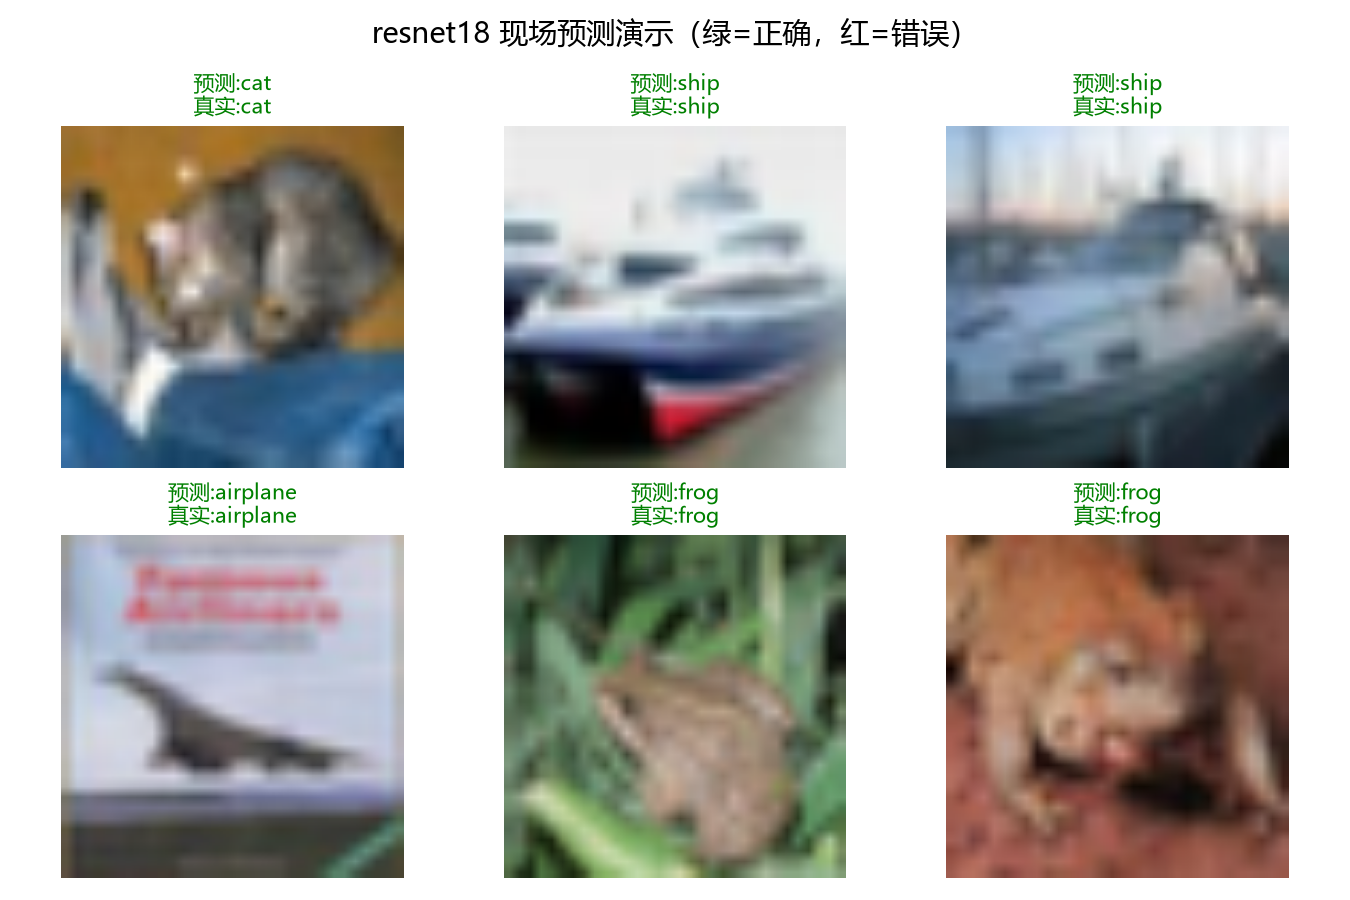
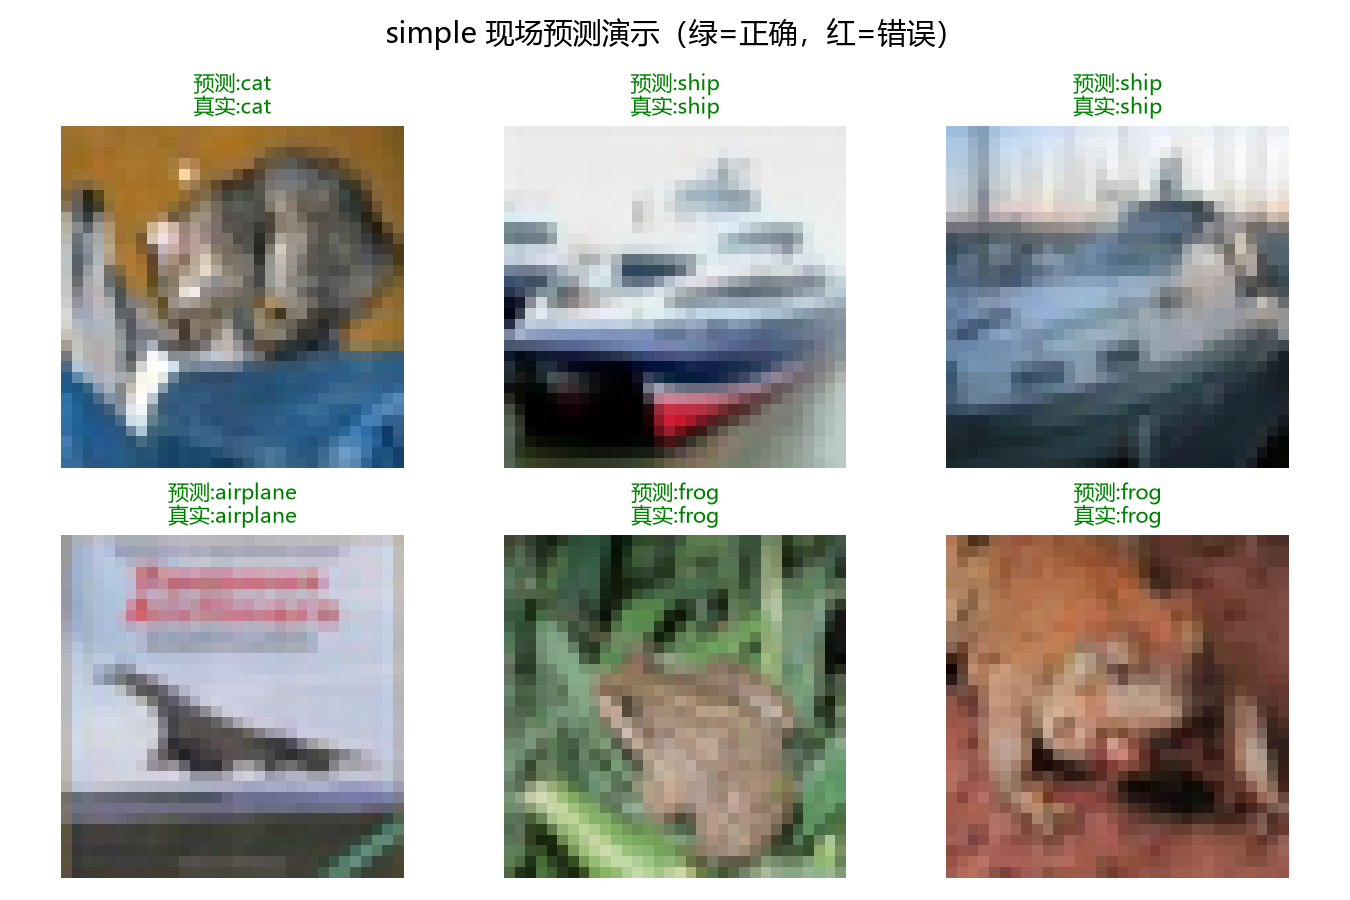
修复demo路径解析；学习笔记补充失败案例；统一冻结骨干→全量微调表述；加入答辩演示材料

diff --git a/src/demo.py b/src/demo.py
@@ -127,14 +127,21 @@ def predict_test_samples(model, name, tf, device, n):
 
 def main():
     args = parse_args()
+    # 相对路径统一从项目根目录解析，避免在 src/ 下运行时报 FileNotFoundError
+    weights = Path(args.weights)
+    if not weights.is_absolute():
+        weights = ROOT / weights
     device = torch.device("cuda" if torch.cuda.is_available() else "cpu")
     model = build_model(args.model).to(device)
-    model.load_state_dict(torch.load(args.weights, map_location=device, weights_only=True))
+    model.load_state_dict(torch.load(weights, map_location=device, weights_only=True))
     tf = make_transform(args.model)
     print(f"[demo] 模型 {args.model} 已加载，设备 {device}\n")
 
     if args.image:
-        predict_custom_image(model, tf, args.image, device)
+        image = Path(args.image)
+        if not image.is_absolute():
+            image = ROOT / image
+        predict_custom_image(model, tf, image, device)
     else:
         predict_test_samples(model, args.model, tf, device, args.n)
 

diff --git a/报告/答辩PPT文案.md b/报告/答辩PPT文案.md
@@ -53,7 +53,7 @@
 | SimpleCNN | 从零设计、从零训练 | 结构简单，验证 CNN 基本能力 |
 | ResNet18 | ImageNet 预训练 + 迁移学习 | 复用预训练特征，收敛快、精度高 |
 
-**讲稿**：我们做了两个模型。第一个是自己搭的轻量网络 SimpleCNN，从零训练，作为基线；第二个是用 ImageNet 预训练好的 ResNet18 做迁移学习，只训练最后的分类层。两者形成对比。
+**讲稿**：我们做了两个模型。第一个是自己搭的轻量网络 SimpleCNN，从零训练，作为基线；第二个是用 ImageNet 预训练好的 ResNet18 做迁移学习，对整个网络做全量微调。两者形成对比。
 
 ---
 
@@ -79,11 +79,11 @@
 
 **正文**：
 - 加载 ImageNet 预训练权重（已学会通用视觉特征）
-- **冻结全部卷积骨干**，只训练最后一层全连接层
-- 把输出类别从 1000 改成 10
-- 参数量小、训练快，小数据集上效果显著
+- 把最后一层全连接从 1000 类换成 10 类
+- **全量微调**：整个网络用学习率 1e-3 继续训练，让特征适应 CIFAR-10
+- 收敛快、精度高，小数据集上优势明显
 
-**讲稿**：迁移学习就是把大模型在大数据上学到的知识，迁移到我们的小任务上。ResNet18 在 ImageNet 上预训练过，已经有了很强的特征提取能力，所以我们冻结它的骨干、只训练最后的分类头，让它适配我们的 10 类。这样训练又快、精度又高。
+**讲稿**：迁移学习就是把大模型在大数据上学到的知识，迁移到我们的小任务上。ResNet18 在 ImageNet 上预训练过，已经有了很强的特征提取能力，所以我们把它的最后一层换成 10 类分类头，然后对整个网络做全量微调，让它适配 CIFAR-10。这样收敛快、精度也高，最终达到 95.18%。
 
 ---
 
@@ -95,7 +95,7 @@
 - 损失函数：交叉熵（CrossEntropyLoss）
 - 优化器：Adam，初始学习率 1e-3
 - 学习率调度：余弦退火（逐步衰减）
-- SimpleCNN 训练 20 轮，ResNet18 训练 15 轮，批大小 128
+- SimpleCNN 训练 20 轮（批大小 128），ResNet18 训练 15 轮（批大小 64）
 - 硬件：RTX 4060 GPU
 
 **讲稿**：两个模型都用交叉熵损失，Adam 优化器，初始学习率 1e-3，配合余弦退火让学习率逐步下降。SimpleCNN 训 20 轮，ResNet18 训 15 轮，在 RTX 4060 上跑。

diff --git a/报告/汇总报告.md b/报告/汇总报告.md
@@ -77,7 +77,7 @@
 
 **SimpleCNN**：主体由三个卷积块堆叠而成，每个块为「卷积 → 批归一化 → ReLU → 最大池化」，通道数 32→64→128，空间尺寸 32→16→8→4，随后展平接 256 维全连接隐层（Dropout 0.5）和 10 类输出层，参数量约 160 万。它作为从零训练的基线模型。
 
-**ResNet18 迁移学习（微调）**：ResNet18 是经典残差网络，通过跳跃连接（skip connection）缓解深层网络的梯度消失问题。迁移学习是指把在大规模数据集上学到的知识迁移到目标任务。本项目加载 ImageNet 预训练的 ResNet18，将其最后一层全连接层替换为输出 10 类的分类头，然后在 CIFAR-10 上以较小学习率对**整个网络进行微调**，让预训练特征适应目标任务。
+**ResNet18 迁移学习（微调）**：ResNet18 是经典残差网络，通过跳跃连接（skip connection）缓解深层网络的梯度消失问题。迁移学习是指把在大规模数据集上学到的知识迁移到目标任务。本项目加载 ImageNet 预训练的 ResNet18，将其最后一层全连接层替换为输出 10 类的分类头，然后在 CIFAR-10 上以合适的学习率对**整个网络进行微调**，让预训练特征适应目标任务。
 
 ### 4.3 关键代码展示
 

diff --git a/报告/成员名单与职责分配.md b/报告/成员名单与职责分配.md
@@ -13,7 +13,7 @@
 | 成员 | 主要工作 | 对应代码/文件 |
 |---|---|---|
 | WJ | CIFAR-10 数据集加载、数据增强（随机裁剪、水平翻转）、归一化；实验环境搭建（PyTorch 安装、依赖管理）；GitHub 仓库结构与复现说明 | `src/data.py`、`requirements.txt`、`README.md` |
-| WWD | SimpleCNN 网络结构设计；ResNet18 迁移学习方案（冻结骨干、替换分类头）；训练脚本编写与超参数调优（学习率、优化器、学习率调度） | `src/model.py`、`src/train.py` |
+| WWD | SimpleCNN 网络结构设计；ResNet18 迁移学习方案（加载预训练、替换分类头、全量微调）；训练脚本编写与超参数调优（学习率、优化器、学习率调度） | `src/model.py`、`src/train.py` |
 | CGS | 模型评估（测试集准确率、混淆矩阵、各类别准确率）；两种模型结果对比分析；汇总报告与答辩 PPT 制作 | `src/evaluate.py`、`报告/`、`PPT/` |
 
 ## 分工逻辑

diff --git a/报告/个人报告_WWD.md b/报告/个人报告_WWD.md
@@ -20,7 +20,7 @@ SimpleCNN 是一个为 CIFAR-10 设计的轻量级卷积网络，主体由三个
 
 ### 2.2 ResNet18 迁移学习
 
-针对数据规模有限的情况，我采用迁移学习方案：加载在 ImageNet 上预训练的 ResNet18 权重，将其最后一层全连接层替换为输出 10 类的分类头，然后以较小的学习率对**整个网络进行微调**，让预训练特征适应 CIFAR-10。预训练权重作为良好初始化，使模型收敛更快、精度更高。
+针对数据规模有限的情况，我采用迁移学习方案：加载在 ImageNet 上预训练的 ResNet18 权重，将其最后一层全连接层替换为输出 10 类的分类头，然后以合适的学习率对**整个网络进行微调**，让预训练特征适应 CIFAR-10。预训练权重作为良好初始化，使模型收敛更快、精度更高。
 
 ### 2.3 训练与调优
 
